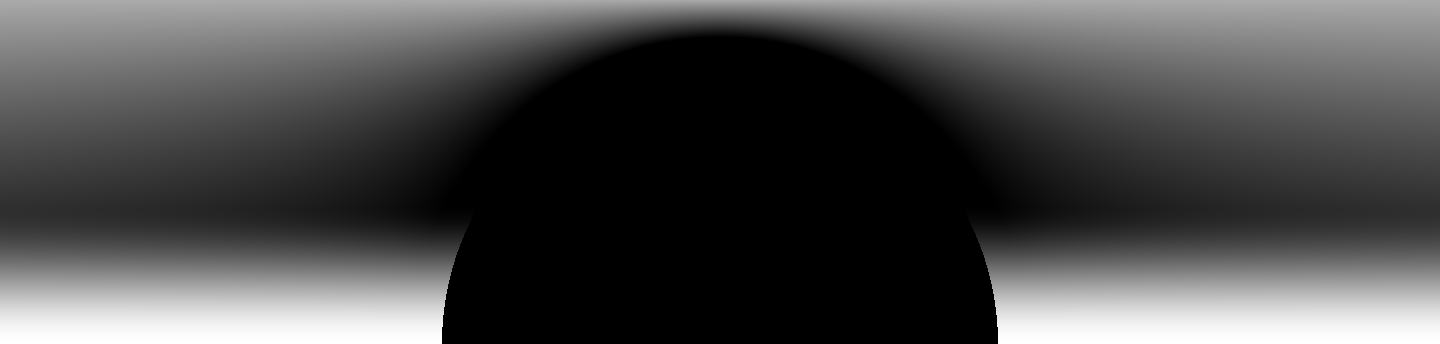
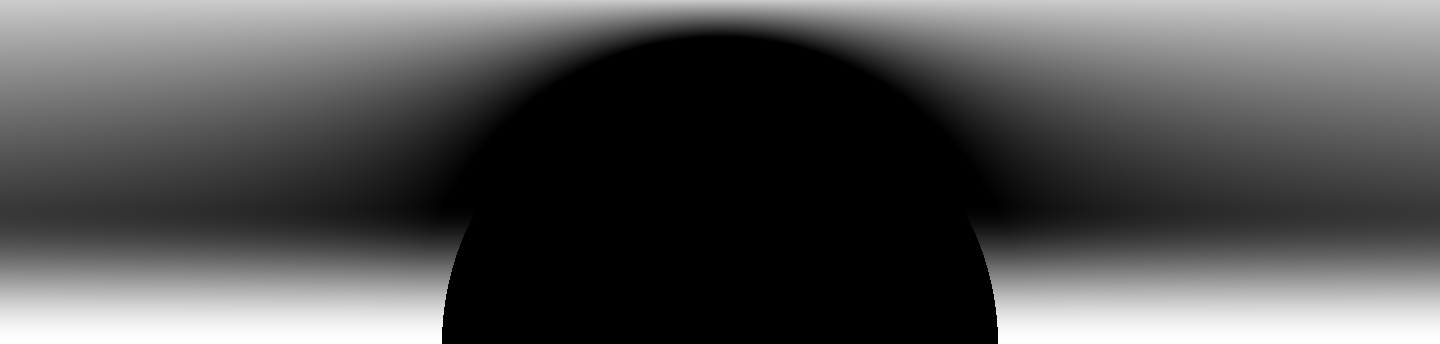
Seal: dissolve split the difference (75 frames) (#323)
Claude-Session: https://claude.ai/code/session_01MhYC1AY8xeCEEXMzs5T9VR

Changed region(s): [[0.0, 0.0, 1.0, 0.2035]]

diff --git a/index.html b/index.html
@@ -1006,7 +1006,7 @@ button,nav,header,h1,h2,h3,h4,h5,h6,label,summary,[role="link"],[role="button"],
 <style>html body [data-ph="lot-lab"]:not(.z1):not(.z2):not(.z3):not(.z4):not(.z5):not(.z6):not(.z7):not(.z8):not(.z9):not(.z10):not(.z11):not(.z12):not(.z13):not(.z14),html body [data-m="wy-split"] > .wy-box:nth-child(3):not(.z1):not(.z2):not(.z3):not(.z4):not(.z5):not(.z6):not(.z7):not(.z8):not(.z9):not(.z10):not(.z11):not(.z12):not(.z13):not(.z14){background:linear-gradient(rgba(5,9,13,.5),rgba(5,9,13,.66)),url("assets/science-art.svg") center / cover no-repeat !important}</style>
 <style>html body [data-ph="desk-lm"]:not(.z1):not(.z2):not(.z3):not(.z4):not(.z5):not(.z6):not(.z7):not(.z8):not(.z9):not(.z10):not(.z11):not(.z12):not(.z13):not(.z14){background:linear-gradient(rgba(0,0,0,.55),rgba(0,0,0,.7)),url("assets/photo/lm-how-made-desk.jpg") center / cover no-repeat !important}[data-ph="vintage-bottles-labels"]:not(.z1):not(.z2):not(.z3):not(.z4):not(.z5):not(.z6):not(.z7):not(.z8):not(.z9):not(.z10):not(.z11):not(.z12):not(.z13):not(.z14){background:linear-gradient(rgba(0,0,0,.6),rgba(0,0,0,.72)),url("assets/photo/vintage-bottles-labels.jpg") center / cover no-repeat !important}html body [data-ph="apothecary-shop"]:not(.z1):not(.z2):not(.z3):not(.z4):not(.z5):not(.z6):not(.z7):not(.z8):not(.z9):not(.z10):not(.z11):not(.z12):not(.z13):not(.z14){background:linear-gradient(rgba(0,0,0,.6),rgba(0,0,0,.72)),url("assets/photo/apothecary-shop.jpg") center / cover no-repeat !important}html body [data-ph="herb-jars-book"]:not(.z1):not(.z2):not(.z3):not(.z4):not(.z5):not(.z6):not(.z7):not(.z8):not(.z9):not(.z10):not(.z11):not(.z12):not(.z13):not(.z14){background:linear-gradient(rgba(0,0,0,.6),rgba(0,0,0,.72)),url("assets/photo/herb-jars-book.jpg") center / cover no-repeat !important}html body [data-ph="mushroom-cabinet"]:not(.z1):not(.z2):not(.z3):not(.z4):not(.z5):not(.z6):not(.z7):not(.z8):not(.z9):not(.z10):not(.z11):not(.z12):not(.z13):not(.z14){background:linear-gradient(rgba(0,0,0,.6),rgba(0,0,0,.72)),url("assets/photo/forest-meditation-yellow.jpg") center / cover no-repeat !important}html body [data-ph="mushroom-jars-lab"]:not(.z1):not(.z2):not(.z3):not(.z4):not(.z5):not(.z6):not(.z7):not(.z8):not(.z9):not(.z10):not(.z11):not(.z12):not(.z13):not(.z14){background:linear-gradient(rgba(0,0,0,.6),rgba(0,0,0,.72)),url("assets/photo/football-team-night.jpg") center 35% / cover no-repeat !important}html body [data-ph="red-hanging-lab"]:not(.z1):not(.z2):not(.z3):not(.z4):not(.z5):not(.z6):not(.z7):not(.z8):not(.z9):not(.z10):not(.z11):not(.z12):not(.z13):not(.z14){background:linear-gradient(rgba(0,0,0,.6),rgba(0,0,0,.72)),url("assets/photo/couple-tent-pourover.jpg") center / cover no-repeat !important}html body [data-ph="lab-people"]:not(.z1):not(.z2):not(.z3):not(.z4):not(.z5):not(.z6):not(.z7):not(.z8):not(.z9):not(.z10):not(.z11):not(.z12):not(.z13):not(.z14){background:linear-gradient(rgba(0,0,0,.6),rgba(0,0,0,.72)),url("assets/photo/lab-people.jpg") center / cover no-repeat !important}html body [data-ph="reactors-lab"]:not(.z1):not(.z2):not(.z3):not(.z4):not(.z5):not(.z6):not(.z7):not(.z8):not(.z9):not(.z10):not(.z11):not(.z12):not(.z13):not(.z14){background:linear-gradient(rgba(0,0,0,.6),rgba(0,0,0,.72)),url("assets/photo/reactors-lab.jpg") center / cover no-repeat !important}html body [data-ph="tank-lab"]:not(.z1):not(.z2):not(.z3):not(.z4):not(.z5):not(.z6):not(.z7):not(.z8):not(.z9):not(.z10):not(.z11):not(.z12):not(.z13):not(.z14){background:linear-gradient(rgba(0,0,0,.6),rgba(0,0,0,.72)),url("assets/photo/tank-lab.jpg") center / cover no-repeat !important}html body [data-ph="river-trees"]:not(.z1):not(.z2):not(.z3):not(.z4):not(.z5):not(.z6):not(.z7):not(.z8):not(.z9):not(.z10):not(.z11):not(.z12):not(.z13):not(.z14){background-image:linear-gradient(rgba(0,0,0,.72),rgba(0,0,0,.8)),url("assets/photo/river-trees.jpg") !important;background-size:100% 100%,cover !important;background-position:center !important;background-repeat:no-repeat !important}html body [data-ph="river-aerial"]:not(.z1):not(.z2):not(.z3):not(.z4):not(.z5):not(.z6):not(.z7):not(.z8):not(.z9):not(.z10):not(.z11):not(.z12):not(.z13):not(.z14){background-image:linear-gradient(rgba(0,0,0,.72),rgba(0,0,0,.8)),url("assets/photo/river-aerial.jpg") !important;background-size:100% 100%,cover !important;background-position:center !important;background-repeat:no-repeat !important}html body [data-ph="bamboo-window-lab"]:not(.z1):not(.z2):not(.z3):not(.z4):not(.z5):not(.z6):not(.z7):not(.z8):not(.z9):not(.z10):not(.z11):not(.z12):not(.z13):not(.z14){background-image:linear-gradient(rgba(0,0,0,.72),rgba(0,0,0,.8)),url("assets/photo/meditation-sunset-hands.jpg") !important;background-size:100% 100%,cover !important;background-position:center !important;background-repeat:no-repeat !important}html body [data-m="why-slate"]:not(.z1):not(.z2):not(.z3):not(.z4):not(.z5):not(.z6):not(.z7):not(.z8):not(.z9):not(.z10):not(.z11):not(.z12):not(.z13):not(.z14){background-image:linear-gradient(rgba(0,0,0,.9),rgba(0,0,0,.94)) !important;background-size:100% 100% !important;background-position:center !important}html body [data-m="wy-split"] > .wy-box:nth-child(3):not(.z1):not(.z2):not(.z3):not(.z4):not(.z5):not(.z6):not(.z7):not(.z8):not(.z9):not(.z10):not(.z11):not(.z12):not(.z13):not(.z14):not(.z15){background:linear-gradient(#05090d,#0b141b) !important}</style>
 <style>@media (max-width:99999px){html body [data-m="hero"] div[style*="aspect-ratio"]{position:relative;z-index:0;isolation:isolate}html body [data-m="hero"] div[style*="aspect-ratio"]::before{content:"";position:absolute;left:50%;top:50%;width:150%;height:150%;transform:translate(-50%,-50%);border-radius:50%;z-index:-1;pointer-events:none;background:radial-gradient(closest-side,rgba(0,0,0,.94) 0,rgba(0,0,0,.92) 40%,rgba(0,0,0,.86) 58%,rgba(0,0,0,.7) 67%,rgba(0,0,0,.35) 80%,rgba(0,0,0,0) 100%)}}</style>
-<style>@media (max-width:99999px){html body section[data-m="hero"]:not(.z1):not(.z2):not(.z3):not(.z4):not(.z5):not(.z6):not(.z7):not(.z8):not(.z9):not(.z10):not(.z11):not(.z12):not(.z13):not(.z14){background-image:radial-gradient(circle at 50% calc(68px + 49vw),#000 0,#000 47.69vw,rgba(0,0,0,0) 49.23vw),linear-gradient(rgba(0,0,0,0) 0,rgba(0,0,0,0) calc(68px + 49vw + 161px),rgba(0,0,0,.25) calc(68px + 49vw + 201px),rgba(0,0,0,.55) calc(68px + 49vw + 236px),rgba(0,0,0,.85) calc(68px + 49vw + 266px),#000 calc(68px + 49vw + 289px),#000 100%),url("assets/photo/seal-halo-phone.png?v=2"),linear-gradient(rgba(0,0,0,.66) 0,rgba(0,0,0,.52) calc(30px + 25vw),rgba(0,0,0,0) calc(68px + 49vw)),radial-gradient(ellipse 230px 200px at 0 0,rgba(0,0,0,.6) 0,rgba(0,0,0,.42) 35%,rgba(0,0,0,.18) 70%,rgba(0,0,0,0) 100%),url("assets/photo/hero-stove-pour-ridge-v10.jpg") !important;background-size:100% 100%,100% 100%,100% calc(68px + 49vw),100% 100%,100% 100%,auto 640px !important;background-position:0 0,0 0,0 0,0 0,0 0,78% -90px !important;background-color:#000 !important;background-repeat:no-repeat !important}}</style>
+<style>@media (max-width:99999px){html body section[data-m="hero"]:not(.z1):not(.z2):not(.z3):not(.z4):not(.z5):not(.z6):not(.z7):not(.z8):not(.z9):not(.z10):not(.z11):not(.z12):not(.z13):not(.z14){background-image:radial-gradient(circle at 50% calc(68px + 49vw),#000 0,#000 47.69vw,rgba(0,0,0,0) 49.23vw),linear-gradient(rgba(0,0,0,0) 0,rgba(0,0,0,0) calc(68px + 49vw + 161px),rgba(0,0,0,.25) calc(68px + 49vw + 201px),rgba(0,0,0,.55) calc(68px + 49vw + 236px),rgba(0,0,0,.85) calc(68px + 49vw + 266px),#000 calc(68px + 49vw + 289px),#000 100%),url("assets/photo/seal-halo-phone.png?v=3"),linear-gradient(rgba(0,0,0,.66) 0,rgba(0,0,0,.52) calc(30px + 25vw),rgba(0,0,0,0) calc(68px + 49vw)),radial-gradient(ellipse 230px 200px at 0 0,rgba(0,0,0,.6) 0,rgba(0,0,0,.42) 35%,rgba(0,0,0,.18) 70%,rgba(0,0,0,0) 100%),url("assets/photo/hero-stove-pour-ridge-v10.jpg") !important;background-size:100% 100%,100% 100%,100% calc(68px + 49vw),100% 100%,100% 100%,auto 640px !important;background-position:0 0,0 0,0 0,0 0,0 0,78% -90px !important;background-color:#000 !important;background-repeat:no-repeat !important}}</style>
 <style>@media (max-width:99999px){html body .hero-cta{display:none !important}html body .hero-panel > .hero-box:nth-child(1){order:1}html body .hero-panel > .hero-pk{order:2}html body .hero-panel > .hero-box:nth-child(2){order:3}html body .hero-pk{display:block !important;border:3px solid #D4A24A;box-sizing:border-box;margin:14px auto 0;height:260px;max-width:560px;width:100%;border-radius:18px}html body [data-m="pk-dup"]{display:none !important}html body .cta-dup{display:flex !important;margin:30px 0 8px}html body section[data-screen-label="Home — mushrooms"]{padding-top:22px !important}html body section[data-m="hero"]{padding-bottom:10px !important}}</style>
 <style>@media (max-width:99999px){
 html body [data-screen-label="Shop"] [data-m="1col"]:has(> article:nth-child(8)){grid-template-columns:repeat(2,minmax(0,1fr)) !important;grid-template-rows:repeat(4,auto) !important;grid-auto-flow:column !important;gap:14px 10px !important;padding:0 8px !important}
@@ -5490,7 +5490,7 @@ html body [data-screen-label="About"] .ab-grid.ab-grid.ab-grid{padding:0 !import
 <style id="desk-phone">
 /* Oct 12: desktop now uses the phone layout, spread out and scaled up for a big screen */
 @media (min-width:1000px){
-html body section[data-m="hero"]:not(.z1):not(.z2):not(.z3):not(.z4):not(.z5):not(.z6):not(.z7):not(.z8):not(.z9):not(.z10):not(.z11):not(.z12):not(.z13):not(.z14):not(.z15):not(.z16):not(.z17):not(.z18):not(.z19)::before{content:"";position:absolute;inset:0;pointer-events:none;z-index:0;background:url("assets/photo/seal-halo-desk.png?v=2") 50% 0/1440px 344px no-repeat}
+html body section[data-m="hero"]:not(.z1):not(.z2):not(.z3):not(.z4):not(.z5):not(.z6):not(.z7):not(.z8):not(.z9):not(.z10):not(.z11):not(.z12):not(.z13):not(.z14):not(.z15):not(.z16):not(.z17):not(.z18):not(.z19)::before{content:"";position:absolute;inset:0;pointer-events:none;z-index:0;background:url("assets/photo/seal-halo-desk.png?v=3") 50% 0/1440px 344px no-repeat}
 html body section[data-m="hero"] > *{position:relative;z-index:1}
 html body main{zoom:1.3}
 html body [data-screen-label="About"] .ab-grid .ab-box.ab-box.ab-box{padding-left:max(28px,calc((100% - 64ch) / 2)) !important;padding-right:max(28px,calc((100% - 64ch) / 2)) !important}
